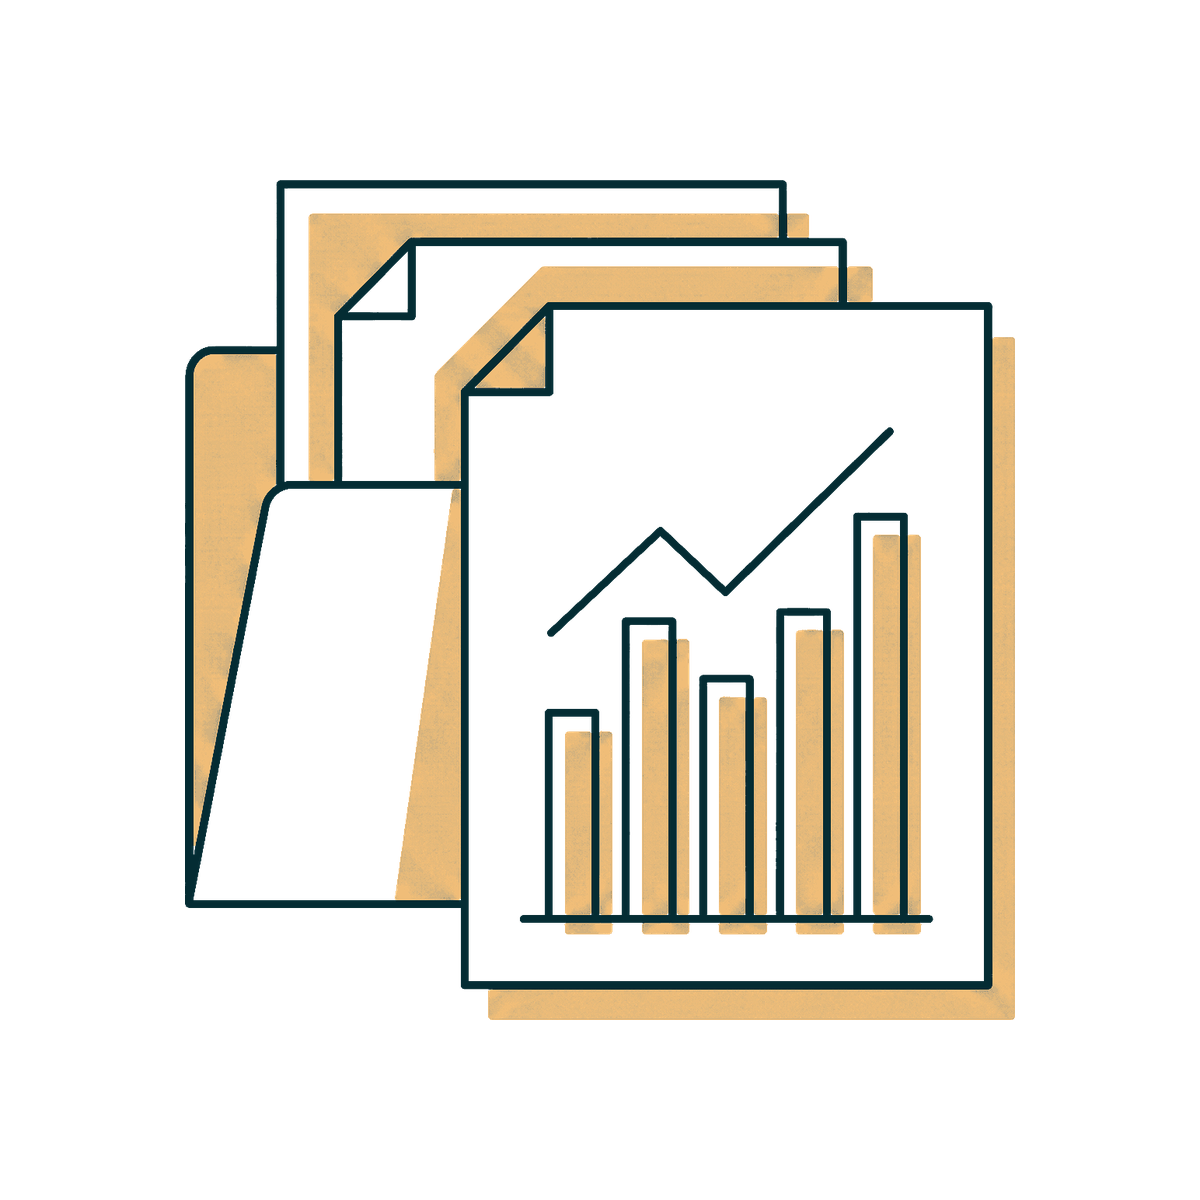
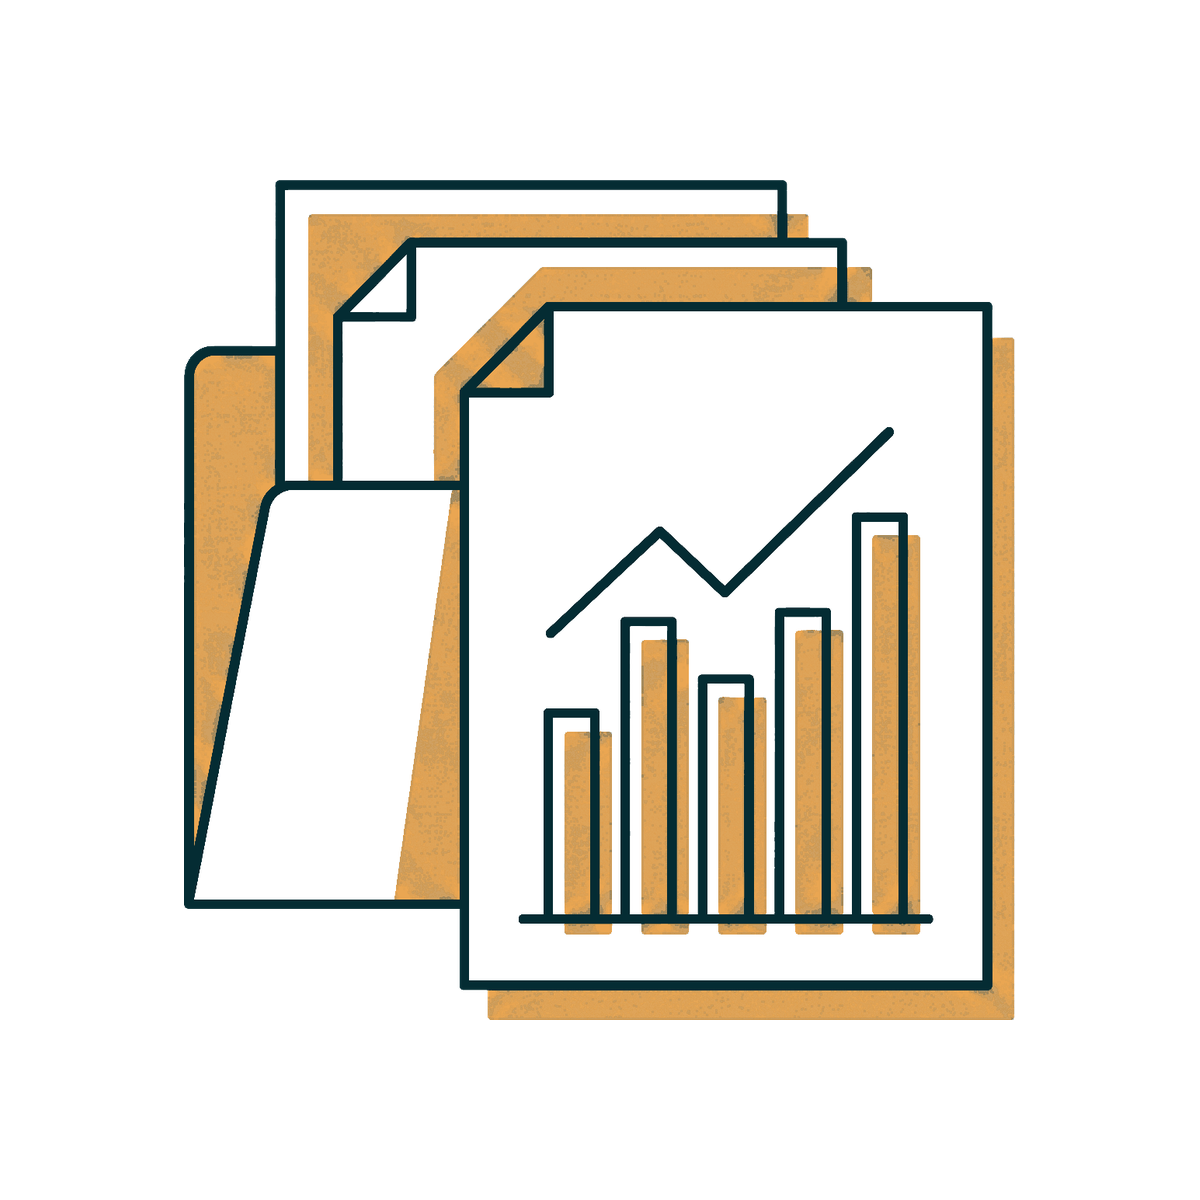
Use the bold-filled illustrations and place them on five pages
The twelve line illustrations are now rendered in the bold-filled style
(white shapes, amber shading, heavier teal line, soft amber disc), with a
plain/ variant without the disc. scripts/recolour-illustrations.py now
produces this style. Ten are placed: the home pipeline steps, the three
product steps, the three enrolment steps on security and trust, five
schools capabilities, and attendance and records on how it works.
Wording is unchanged.

Claude-Session: https://claude.ai/code/session_016LM5WEdwnhFo27JjNtgf3X

diff --git a/src/app/schools/page.tsx b/src/app/schools/page.tsx
@@ -1,7 +1,7 @@
 import type { Metadata } from "next";
 import Link from "next/link";
 import type { ReactNode } from "react";
-import { CirclePhoto, Cta, Details, H2, Lede, PageHeader, Section, type Tone } from "@/components/ui";
+import { CirclePhoto, Cta, Details, H2, Illustration, Lede, PageHeader, Section, type Tone } from "@/components/ui";
 
 export const metadata: Metadata = { title: "Schools" };
 
@@ -13,6 +13,7 @@ function Capability({
   items,
   image,
   imageAlt = "",
+  illustration,
 }: {
   id?: string;
   tone: Tone;
@@ -21,10 +22,11 @@ function Capability({
   items: { title: string; text: ReactNode }[];
   image?: string;
   imageAlt?: string;
+  illustration?: string;
 }) {
   return (
     <Section id={id} tone={tone}>
-      <div className={`grid gap-12 ${image ? "md:grid-cols-[1.1fr_0.9fr] md:items-center lg:gap-20" : ""}`}>
+      <div className={`grid gap-12 ${image || illustration ? "md:grid-cols-[1.1fr_0.9fr] md:items-center lg:gap-20" : ""}`}>
         <div className="min-w-0">
           <H2 tone={tone} className="max-w-[18ch]">
             {title}
@@ -34,6 +36,7 @@ function Capability({
           </Lede>
         </div>
         {image && <CirclePhoto src={image} alt={imageAlt} />}
+        {illustration && <Illustration name={illustration} className="mx-auto max-w-[380px]" />}
       </div>
       <div className="mt-14">
         <Details tone={tone} items={items} />
@@ -72,6 +75,7 @@ export default function SchoolsPage() {
       <Capability
         id="security"
         tone="light"
+        illustration="detect"
         title="Facial recognition at the entry point"
         intro="A weatherproof camera at the gate matches an arriving face against the school’s own enrolled records, and a unit on site does the matching. Face data is matched and encrypted on the school’s own hardware: no photos leave the school. A pupil walks up to the gate as normal, with no card and no tag."
         items={[
@@ -85,6 +89,7 @@ export default function SchoolsPage() {
       <Capability
         id="attendance"
         tone="cream"
+        illustration="attendance"
         title="A register that fills itself"
         intro="Arrival is logged the moment a face is matched, and the class teacher opens a register that is already correct. Nobody reconstructs a morning from memory at break, and nobody transcribes a paper sheet afterwards."
         items={[
@@ -112,6 +117,7 @@ export default function SchoolsPage() {
       <Capability
         id="boarding"
         tone="light"
+        illustration="boarding"
         title="Boarding schools, where the stakes are higher"
         intro="A boarding parent is often far from the school and depends on the system entirely. So a boarder’s record is not a daily arrival event but a running campus state, and leaving campus is something that has to be authorised before it happens."
         items={[
@@ -138,6 +144,7 @@ export default function SchoolsPage() {
       <Capability
         id="dashboard"
         tone="dark"
+        illustration="records"
         title="One dashboard instead of a shelf of files"
         intro="The desktop application the school actually runs on. Live camera views with recognition overlays, the gate devices and guard accounts, and a searchable record of pupils, teachers, classes and timetables in one place rather than in separate books."
         items={[
@@ -150,6 +157,7 @@ export default function SchoolsPage() {
       <Capability
         id="report-cards"
         tone="light"
+        illustration="report-cards"
         title="Report cards, published in one action"
         intro="A class’s assessment marks sit against the school’s own grading scale, which can be set per level or overridden for a single class. When a term’s reports are ready they publish to the parent portal in one action."
         items={[

diff --git a/src/app/how-it-works/page.tsx b/src/app/how-it-works/page.tsx
@@ -1,5 +1,5 @@
 import type { Metadata } from "next";
-import { CirclePhoto, Cta, Details, H2, Lede, PageHeader, Section, SectionIntro, type Tone } from "@/components/ui";
+import { CirclePhoto, Cta, Details, H2, Illustration, Lede, PageHeader, Section, SectionIntro, type Tone } from "@/components/ui";
 
 export const metadata: Metadata = { title: "How it works" };
 
@@ -15,6 +15,7 @@ const parts: {
   sees: string;
   image?: string;
   imageAlt?: string;
+  illustration?: string;
 }[] = [
   {
     id: "recognition",
@@ -32,6 +33,7 @@ const parts: {
   {
     id: "attendance",
     name: "Attendance",
+    illustration: "register",
     tone: "cream",
     intro: "The entry event is the attendance record. There is no second step for anyone to remember, and no paper register to transcribe afterwards.",
     quote: "The walk through the gate is the register entry. Nothing is transcribed afterwards, and nothing waits for a teacher to find a moment.",
@@ -56,6 +58,7 @@ const parts: {
   {
     id: "records",
     name: "Records",
+    illustration: "records",
     tone: "light",
     intro: "Everything above produces records. This is where they become something a head teacher can take into a meeting.",
     quote: "The reports are drawn from the entry and exit events themselves. Nobody assembles them by hand, so the figures and the gate cannot disagree.",
@@ -94,7 +97,7 @@ export default function HowItWorksPage() {
 
       {parts.map((p, i) => (
         <Section key={p.id} id={p.id} tone={p.tone}>
-          <div className={`grid gap-12 ${p.image ? "md:grid-cols-[1.1fr_0.9fr] md:items-center lg:gap-20" : ""}`}>
+          <div className={`grid gap-12 ${p.image || p.illustration ? "md:grid-cols-[1.1fr_0.9fr] md:items-center lg:gap-20" : ""}`}>
             <div className="min-w-0">
               <span className="flex h-11 w-11 items-center justify-center rounded-full bg-amber text-lg font-semibold text-teal">{i + 1}</span>
               <H2 tone={p.tone} className="mt-6">
@@ -108,6 +111,7 @@ export default function HowItWorksPage() {
               </blockquote>
             </div>
             {p.image && <CirclePhoto src={p.image} alt={p.imageAlt ?? ""} />}
+            {p.illustration && <Illustration name={p.illustration} className="mx-auto max-w-[380px]" />}
           </div>
           <div className="mt-14">
             <Details

diff --git a/src/app/security-and-trust/page.tsx b/src/app/security-and-trust/page.tsx
@@ -1,12 +1,12 @@
 import type { Metadata } from "next";
-import { Cta, Details, H2, Lede, PageHeader, Section, SectionIntro } from "@/components/ui";
+import { Cta, Details, H2, Illustration, Lede, PageHeader, Section, SectionIntro } from "@/components/ui";
 
 export const metadata: Metadata = { title: "Security & trust" };
 
 const enrolment = [
-  { title: "A face is found", text: "The camera takes a frame and locates the face in it. At this point nothing has been identified - the system knows only that a face is there." },
-  { title: "Its geometry is measured", text: "The distances and angles between landmarks - the corners of the eyes, the nose, the mouth - are measured. The measurements are what matter; the picture they came from is not kept." },
-  { title: "Numbers are what is stored", text: "Those measurements become the template: a string of numbers held on the unit at your gate. It can be compared against a face at the gate. It cannot be turned back into one." },
+  { art: "detect", title: "A face is found", text: "The camera takes a frame and locates the face in it. At this point nothing has been identified - the system knows only that a face is there." },
+  { art: "extract", title: "Its geometry is measured", text: "The distances and angles between landmarks - the corners of the eyes, the nose, the mouth - are measured. The measurements are what matter; the picture they came from is not kept." },
+  { art: "template", title: "Numbers are what is stored", text: "Those measurements become the template: a string of numbers held on the unit at your gate. It can be compared against a face at the gate. It cannot be turned back into one." },
 ];
 
 const questions = [
@@ -59,6 +59,7 @@ export default function SecurityPage() {
         <ol className="mt-14 grid gap-4 md:grid-cols-3">
           {enrolment.map((s, i) => (
             <li key={s.title} className="rounded-[14px] bg-cream p-7 text-ink">
+              <Illustration name={s.art} className="mx-auto mb-6 max-w-[240px]" />
               <span className="flex h-10 w-10 items-center justify-center rounded-full bg-amber font-semibold text-teal">{i + 1}</span>
               <h3 className="mt-5 text-xl font-semibold">{s.title}</h3>
               <p className="mt-2 leading-relaxed text-ink-body">{s.text}</p>

diff --git a/src/app/page.tsx b/src/app/page.tsx
@@ -3,7 +3,7 @@ import Link from "next/link";
 import { ScanFace, ClipboardCheck, BellRing, TabletSmartphone } from "lucide-react";
 import { Hero } from "@/components/Hero";
 import { TimeSaved } from "@/components/TimeSaved";
-import { Button, CirclePhoto, CreamCards, Cta, H2, Lede, Section, SectionIntro, TextLink } from "@/components/ui";
+import { Button, CirclePhoto, CreamCards, Cta, H2, Illustration, Lede, Section, SectionIntro, TextLink } from "@/components/ui";
 
 const problems = [
   ["Shared access cards", "The credential is the person, not a badge that can be lent, copied or left at home."],
@@ -54,10 +54,10 @@ const sectors = [
 ];
 
 const pipeline = [
-  { label: "Recognition", title: "Recognition", text: "A face is matched at the entry point, on hardware standing on your own site." },
-  { label: "Attendance", title: "Attendance", text: "That same scan writes the arrival straight into the register." },
-  { label: "Alerts", title: "Alerts", text: "A push notification reaches the parent on the school’s chosen delay, with SMS behind it." },
-  { label: "Records", title: "Records", text: "Entry logs and attendance collect into one searchable view, and export." },
+  { art: "detect", title: "Recognition", text: "A face is matched at the entry point, on hardware standing on your own site." },
+  { art: "attendance", title: "Attendance", text: "That same scan writes the arrival straight into the register." },
+  { art: "alerts", title: "Alerts", text: "A push notification reaches the parent on the school’s chosen delay, with SMS behind it." },
+  { art: "records", title: "Records", text: "Entry logs and attendance collect into one searchable view, and export." },
 ];
 
 export default function Home() {
@@ -153,6 +153,7 @@ export default function Home() {
         <ol className="mt-14 grid gap-px overflow-hidden rounded-[14px] border border-ink/15 bg-ink/15 sm:grid-cols-2 lg:grid-cols-4">
           {pipeline.map((s, i) => (
             <li key={s.title} className="bg-paper p-7">
+              <Illustration name={s.art} className="mx-auto mb-5 max-w-[200px]" />
               <span className="flex h-9 w-9 items-center justify-center rounded-full bg-amber font-semibold tabular-nums text-teal">
                 {i + 1}
               </span>

diff --git a/src/app/product/page.tsx b/src/app/product/page.tsx
@@ -1,20 +1,23 @@
 import type { Metadata } from "next";
 import Link from "next/link";
-import { CirclePhoto, CreamCards, Cta, H2, Lede, PageHeader, Section, SectionIntro } from "@/components/ui";
+import { CirclePhoto, CreamCards, Cta, H2, Illustration, Lede, PageHeader, Section, SectionIntro } from "@/components/ui";
 
 export const metadata: Metadata = { title: "Smart Vizion" };
 
 const steps = [
   {
+    art: "detect",
     title: "It recognises a face at the entry point",
     text: "A camera matches an arriving face against your own enrolled records, on a unit standing on your own premises. No images leave the site, and the entrance keeps working through an internet outage because nothing has to travel for a match to happen.",
     link: { href: "/security-and-trust", label: "What does on-device mean?" },
   },
   {
+    art: "register",
     title: "That same scan writes the record",
     text: "There is no second step for anyone to remember. Arrival and departure are timestamped as they occur, so the register - or the time record - is already correct when someone opens it.",
   },
   {
+    art: "parent-alert",
     title: "And somebody is told, without anyone deciding to",
     text: "A push notification reaches whoever needs to know, carrying the photo so they can see the match was right. How soon after the scan it goes is a setting the site controls. SMS follows as a metered fallback for anyone without the app.",
   },
@@ -58,6 +61,7 @@ export default function ProductPage() {
         <ol className="grid gap-10 md:grid-cols-3">
           {steps.map((s, i) => (
             <li key={s.title} className="border-t-4 border-amber pt-5">
+              <Illustration name={s.art} className="mx-auto mb-6 max-w-[260px]" />
               <span className="flex h-9 w-9 items-center justify-center rounded-full bg-amber font-semibold text-teal">{i + 1}</span>
               <h2 className="mt-5 text-2xl font-semibold leading-tight tracking-tight text-ink">{s.title}</h2>
               <p className="mt-3 leading-relaxed text-ink-body">{s.text}</p>

diff --git a/src/components/ui.tsx b/src/components/ui.tsx
@@ -206,3 +206,28 @@ export function Cta({ title, children, button = "Book a Demo" }: { title: ReactN
     </section>
   );
 }
+
+/** One of the bold-filled line illustrations in /public/illustrations.
+    Decorative by default (the text beside it says the same thing). */
+export function Illustration({
+  name,
+  alt = "",
+  className = "",
+  plain = false,
+}: {
+  name: string;
+  alt?: string;
+  className?: string;
+  plain?: boolean;
+}) {
+  return (
+    <Image
+      src={`/illustrations/${plain ? "plain/" : ""}${name}.png`}
+      alt={alt}
+      width={1200}
+      height={1200}
+      sizes="(min-width: 768px) 30vw, 70vw"
+      className={`h-auto w-full ${className}`}
+    />
+  );
+}

diff --git a/scripts/recolour-illustrations.py b/scripts/recolour-illustrations.py
@@ -1,52 +1,65 @@
-# Recolour the DYCH line illustrations into the site palette.
+# Render the DYCH line illustrations in the site's "bold filled" style.
 # Usage: python3 scripts/recolour-illustrations.py public/illustrations/source-violet public/illustrations
-# Change LINE, FILL and DISC below to match a different colour scheme, then re-run.
+# Writes <name>.png (on an amber disc) and plain/<name>.png (no disc).
+# Change the colours below to match a different scheme, then re-run.
 import sys, glob, os
 from PIL import Image, ImageFilter, ImageDraw, ImageChops
 
 SRC, OUT = sys.argv[1], sys.argv[2]
-LINE = (4, 44, 51)        # teal ink
-FILL = (240, 189, 120)    # warm amber tint (between amber and apricot)
-DISC = (241, 231, 214)    # cream backdrop
-DEEP = (201, 132, 52)     # deep amber for graded shading
 SIZE = 1200
+LINE = (4, 44, 51)          # teal ink
+SHAPE = (255, 255, 255)     # closed shapes filled solid white
+SHADE = (234, 166, 82)      # the original shading, in amber
+DISC = (247, 214, 166)      # soft amber disc behind each drawing
 
-os.makedirs(OUT, exist_ok=True)
-for f in sorted(glob.glob(os.path.join(SRC, "*.png"))):
-    a = Image.open(f).convert("RGBA").getchannel("A")
+
+def masks(path):
+    a = Image.open(path).convert("RGBA").getchannel("A")
     # Lines: anything reasonably opaque, pushed to full strength so faint
-    # strokes match the heavy ones, with a soft ramp kept for anti-aliasing.
+    # strokes match the heavy ones.
     line = a.point(lambda v: 0 if v < 60 else min(255, int((v - 60) * 255 / 70)))
-    # Fills: the flat translucent tint areas. A median filter drops the thin
-    # anti-aliased fringe around lines so it does not turn into an amber halo.
-    fill = a.point(lambda v: 255 if 4 <= v < 100 else 0).filter(ImageFilter.MedianFilter(5))
-    fill = ImageChops.subtract(fill, line)
+    # Shading: the flat translucent tint areas, minus the anti-aliased fringe.
+    shade = a.point(lambda v: 255 if 4 <= v < 100 else 0).filter(ImageFilter.MedianFilter(5))
+    shade = ImageChops.subtract(shade, line)
+    # Closed shapes: every non-line pixel the outside cannot reach without
+    # crossing a line, found by flood-filling from a padded border.
+    hard = line.point(lambda v: 255 if v > 90 else 0).filter(ImageFilter.MaxFilter(3))
+    pad = Image.new("L", (a.width + 4, a.height + 4), 0)
+    pad.paste(hard, (2, 2))
+    ImageDraw.floodfill(pad, (0, 0), 128)
+    outside = pad.crop((2, 2, a.width + 2, a.height + 2)).point(lambda v: 255 if v == 128 else 0)
+    shape = ImageChops.subtract(ImageChops.invert(outside), hard)
+    return line, shade, shape
 
-    art = Image.new("RGBA", a.size, FILL + (0,))
-    art.putalpha(fill)
-    ink = Image.new("RGBA", a.size, LINE + (255,))
-    ink.putalpha(line)
-    art = Image.alpha_composite(art, ink)
 
-    # Trim to the drawing, fit into a square canvas over a cream disc.
-    bbox = art.getbbox()
-    art = art.crop(bbox)
+def layer(size, rgb, mask):
+    im = Image.new("RGBA", size, rgb + (0,))
+    im.putalpha(mask)
+    return im
+
+
+def place(art, disc):
+    art = art.crop(art.getbbox())
     box = int(SIZE * 0.70)
-    scale = min(box / art.width, box / art.height)
-    art = art.resize((max(1, int(art.width * scale)), max(1, int(art.height * scale))), Image.LANCZOS)
+    s = min(box / art.width, box / art.height)
+    art = art.resize((int(art.width * s), int(art.height * s)), Image.LANCZOS)
+    canvas = Image.new("RGBA", (SIZE, SIZE), (0, 0, 0, 0))
+    if disc:
+        r, c = int(SIZE * 0.46), SIZE // 2
+        ImageDraw.Draw(canvas).ellipse((c - r, c - r, c + r, c + r), fill=DISC + (255,))
+    canvas.alpha_composite(art, ((SIZE - art.width) // 2, (SIZE - art.height) // 2))
+    return canvas
 
-    for variant in ("disc", "plain"):
-        canvas = Image.new("RGBA", (SIZE, SIZE), (0, 0, 0, 0))
-        if variant == "disc":
-            d = ImageDraw.Draw(canvas)
-            r = int(SIZE * 0.46)
-            c = SIZE // 2
-            d.ellipse((c - r, c - r, c + r, c + r), fill=DISC + (255,))
-        x = (SIZE - art.width) // 2
-        y = (SIZE - art.height) // 2
-        canvas.alpha_composite(art, (x, y))
-        name = os.path.splitext(os.path.basename(f))[0]
-        sub = OUT if variant == "disc" else os.path.join(OUT, "plain")
-        os.makedirs(sub, exist_ok=True)
-        canvas.save(os.path.join(sub, name + ".png"), optimize=True)
-    print("done", os.path.basename(f))
+
+os.makedirs(os.path.join(OUT, "plain"), exist_ok=True)
+for f in sorted(glob.glob(os.path.join(SRC, "*.png"))):
+    line, shade, shape = masks(f)
+    size = line.size
+    art = Image.new("RGBA", size, (0, 0, 0, 0))
+    art = Image.alpha_composite(art, layer(size, SHAPE, shape))
+    art = Image.alpha_composite(art, layer(size, SHADE, shade))
+    art = Image.alpha_composite(art, layer(size, LINE, line.filter(ImageFilter.MaxFilter(3))))
+    name = os.path.splitext(os.path.basename(f))[0]
+    place(art, True).save(os.path.join(OUT, name + ".png"), optimize=True)
+    place(art, False).save(os.path.join(OUT, "plain", name + ".png"), optimize=True)
+    print("done", name)
